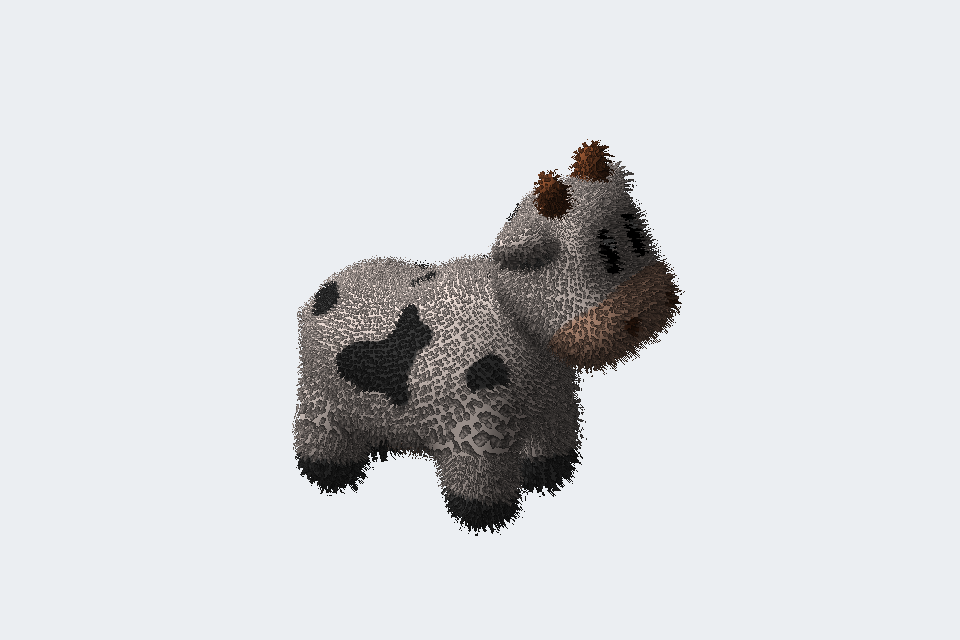
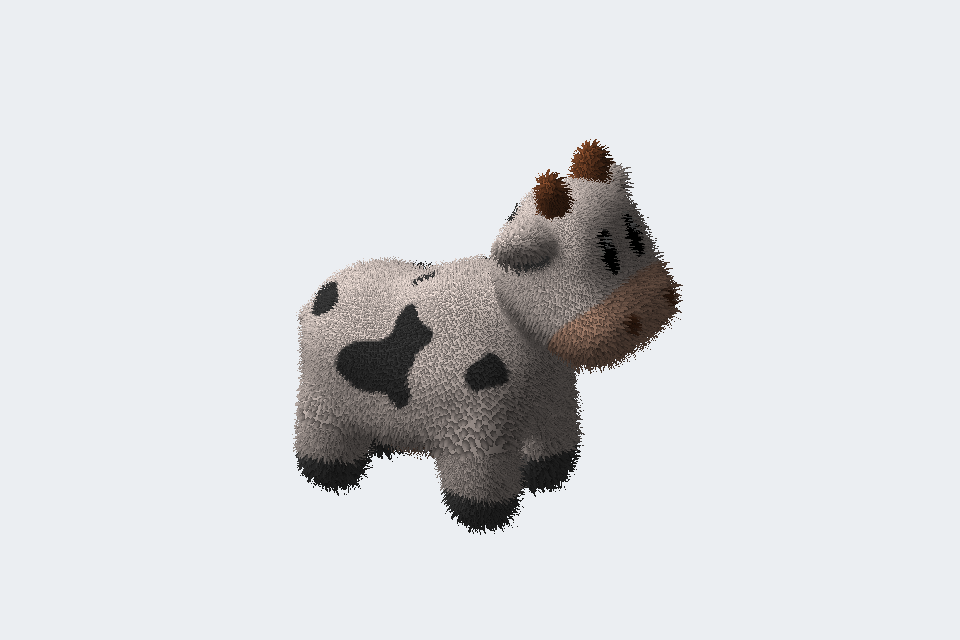
feat: share one strand texture across fur layers
The strand texture's alpha is the height each tapered strand reaches at a
texel; each layer is a cutout at its own height, keeping exactly the
cross-section separate layer textures did, in one texture whatever the
shell count. Texels show their strand's top color, so lower layers, which
show more short strand edges, are darker. Spot's demo coat drops from
about 36 MB to 7 MB while growing finer strands and more shells.

Changed region(s): [[0.2812, 0.2188, 0.7188, 0.8438]]

diff --git a/web/fur/index.html b/web/fur/index.html
@@ -1,7 +1,7 @@
 <!doctype html>
 <html lang="en"><head><meta charset="utf-8"><meta name="viewport" content="width=device-width, initial-scale=1"><title>Fur — nt3d</title><link rel="stylesheet" href="../demo.css"></head>
 <body><header class="nav demo-nav"><a href="../">← nt3d demos</a><h1>Fur</h1><nav class="links" aria-label="Demo links"><a href="../shapes/">Shapes</a><a href="../models/">Models</a><a href="../large/">Dense mesh</a><a href="https://github.com/NimbleTerminal/nt3d/blob/main/examples/terrain/internal/terraindemo/fur.go">Source ↗</a></nav></header>
-<main class="demo-main"><p class="description">Shell fur on Spot the cow (by Keenan Crane, public domain): the mesh drawn again in layers, each pushed out along the normals and cut to the strands’ cross-section with a cutout texture. Spot’s own texture colors the fur, and the wind moves each layer’s node, so swaying uploads no geometry.</p><div class="terminal-shell"><p id="status" role="status" aria-live="polite">Loading the terminal and scene…</p><div id="terminal-container" style="position:absolute" role="region" aria-label="Interactive fur terminal"></div></div>
-<div class="controls" aria-label="Keyboard and mouse controls"><span>Drag: orbit · Shift-drag: pan · Wheel: zoom · <kbd>c</kbd> fit</span><span><kbd>a</kbd> wind <kbd>s</kbd> shells: 8, 12, 24 <kbd>l</kbd> length <kbd>n</kbd> turn</span><span><kbd>1</kbd> GPU <kbd>2</kbd> software <kbd>3</kbd> wireframe</span><span><kbd>r</kbd> camera rotation <kbd>g</kbd> glyphs <kbd>o</kbd> projection <kbd>q</kbd> quit</span></div>
+<main class="demo-main"><p class="description">Shell fur on Spot the cow (by Keenan Crane, public domain): the mesh drawn again in layers, each pushed out along the normals and cut to the strands’ cross-section by one shared texture, whose alpha is each strand’s height, at the layer’s own threshold. Spot’s own texture colors the fur, and the wind moves each layer’s node, so swaying uploads no geometry.</p><div class="terminal-shell"><p id="status" role="status" aria-live="polite">Loading the terminal and scene…</p><div id="terminal-container" style="position:absolute" role="region" aria-label="Interactive fur terminal"></div></div>
+<div class="controls" aria-label="Keyboard and mouse controls"><span>Drag: orbit · Shift-drag: pan · Wheel: zoom · <kbd>c</kbd> fit</span><span><kbd>a</kbd> wind <kbd>s</kbd> shells: 8, 16, 32 <kbd>l</kbd> length <kbd>n</kbd> turn</span><span><kbd>1</kbd> GPU <kbd>2</kbd> software <kbd>3</kbd> wireframe</span><span><kbd>r</kbd> camera rotation <kbd>g</kbd> glyphs <kbd>o</kbd> projection <kbd>q</kbd> quit</span></div>
 <p class="demo-foot">Fewer shells show the layering; seen edge-on, strands break into dashes, the technique’s known limit. Click the terminal to focus keyboard controls. GPU falls back to software when unavailable. Reload to restart after quitting.</p></main>
 <script src="wasm_exec.js"></script><script type="module" src="../demo.js"></script></body></html>

diff --git a/fur.go b/fur.go
@@ -49,21 +49,21 @@ const (
 // them; a layer at the full length would only ever be empty.
 func (f Fur) height(k int) float32 { return float32(k) / float32(f.Shells) }
 
-// FurCoat grows a Fur on meshes. It makes each strand density's layer
-// textures once, for every mesh that needs them.
+// FurCoat grows a Fur on meshes. It makes each strand density's texture
+// once, for every mesh that needs it.
 type FurCoat struct {
 	fur    Fur
-	layers map[furLayers][]*Texture
+	layers map[furLayers]*Texture
 }
 
-// furLayers names a set of layer textures: their strands, and the texture
-// that colors them, if any.
+// furLayers names a strand texture: its strands, and the texture that colors
+// them, if any.
 type furLayers struct {
 	density int
 	source  *Texture
 }
 
-// NewFur checks a Fur and returns its coat. Layer textures are made by
+// NewFur checks a Fur and returns its coat. Strand textures are made by
 // Shells, when a mesh shows what they need.
 func NewFur(f Fur) (*FurCoat, error) {
 	if f.Shells == 0 {
@@ -88,7 +88,7 @@ func NewFur(f Fur) (*FurCoat, error) {
 	case f.Spacing == 0 && (f.Density < 4 || f.Density > furMaxDensity):
 		return nil, fmt.Errorf("nt3d: fur density must be 4..%d", furMaxDensity)
 	}
-	return &FurCoat{fur: f, layers: map[furLayers][]*Texture{}}, nil
+	return &FurCoat{fur: f, layers: map[furLayers]*Texture{}}, nil
 }
 
 // density is strands across the texture for a mesh: Density, or as many as
@@ -111,10 +111,16 @@ func (c *FurCoat) density(base Geometry) int {
 	return int(min(furMaxDensity, max(4, math.Round(math.Sqrt(surface/uv)/float64(c.fur.Spacing)))))
 }
 
-// layerTextures makes, or returns, one texture per shell above the skin.
-func (c *FurCoat) layerTextures(key furLayers) ([]*Texture, error) {
-	if layers, ok := c.layers[key]; ok {
-		return layers, nil
+// strands makes, or returns, the texture all the layers share. Its alpha is
+// the height, as a fraction of the fur's length, to which a strand reaches
+// at each texel: a tapered strand is tallest at its center and short at its
+// edge. A layer at height h is a cutout at threshold h, so it keeps just the
+// strands' cross-section there, as a texture per layer would, at a fraction
+// of the memory. A texel's color is that of its strand at its top, so short
+// strand edges, which lower layers show most of, are darker.
+func (c *FurCoat) strands(key furLayers) (*Texture, error) {
+	if texture, ok := c.layers[key]; ok {
+		return texture, nil
 	}
 	f, density := c.fur, key.density
 	size := min(furMaxTexture, density*furTexelsPerStrand)
@@ -145,37 +151,30 @@ func (c *FurCoat) layerTextures(key furLayers) ([]*Texture, error) {
 		}
 		strands[i] = s
 	}
-	var layers []*Texture
-	for k := 1; k < f.Shells; k++ {
-		h := float64(f.height(k))
-		img := image.NewNRGBA(image.Rect(0, 0, size, size))
-		for y := range size {
-			for x := range size {
-				s := &strands[min(density-1, int(float64(y)/cell))*density+min(density-1, int(float64(x)/cell))]
-				if h > s.length {
-					continue
-				}
-				// Strands taper to their tips, but keep enough body that the
-				// outer layers, which are what shows, still cover the fur.
-				along := h / s.length
-				if math.Hypot(float64(x)+.5-s.x, float64(y)+.5-s.y) > s.radius*(1-.6*along) {
-					continue
-				}
-				// Color turns toward the tip early, as most of a strand that
-				// shows is its upper part; light reaches the outer fur.
-				shade, tip := .7+.3*h, math.Sqrt(along)
-				mix := func(c int) uint8 { return uint8((s.root[c] + (s.tip[c]-s.root[c])*tip) * shade) }
-				img.SetNRGBA(x, y, color.NRGBA{mix(0), mix(1), mix(2), 255})
-			}
+	img := image.NewNRGBA(image.Rect(0, 0, size, size))
+	for y := range size {
+		for x := range size {
+			s := &strands[min(density-1, int(float64(y)/cell))*density+min(density-1, int(float64(x)/cell))]
+			// A strand's radius shrinks to 40% at its tip, so a texel at
+			// distance d stays inside it up to this height.
+			d := math.Hypot(float64(x)+.5-s.x, float64(y)+.5-s.y)
+			height := max(0, min(s.length, s.length*(1-d/s.radius)/.6))
+			// Color turns toward the tip early, as most of a strand that
+			// shows is its upper part; light reaches the outer fur. Texels
+			// outside strands keep their strand's color too, so filtering at
+			// strand edges does not darken them.
+			along := height / s.length
+			shade, tip := .7+.3*height, math.Sqrt(along)
+			mix := func(c int) uint8 { return uint8((s.root[c] + (s.tip[c]-s.root[c])*tip) * shade) }
+			img.SetNRGBA(x, y, color.NRGBA{mix(0), mix(1), mix(2), uint8(math.Round(height * 255))})
 		}
-		t, err := NewTexture(img)
-		if err != nil {
-			return nil, err
-		}
-		layers = append(layers, t)
 	}
-	c.layers[key] = layers
-	return layers, nil
+	texture, err := NewTexture(img)
+	if err != nil {
+		return nil, err
+	}
+	c.layers[key] = texture
+	return texture, nil
 }
 
 // Shells returns the fur on a base mesh: first an opaque skin, then one
@@ -196,7 +195,7 @@ func (c *FurCoat) Shells(base Geometry) ([]Geometry, error) {
 	if textured(base) {
 		key.source = base.Material.Texture
 	}
-	layers, err := c.layerTextures(key)
+	strands, err := c.strands(key)
 	if err != nil {
 		return nil, err
 	}
@@ -212,9 +211,9 @@ func (c *FurCoat) Shells(base Geometry) ([]Geometry, error) {
 	}
 	skin.Bounds = GeometryBounds(skin)
 	shells := []Geometry{skin}
-	for k, texture := range layers {
-		h := f.height(k + 1)
-		g := Geometry{Vertices: slices.Clone(base.Vertices), Indices: base.Indices, UV: base.UV, Material: &Material{Texture: texture, Cutout: true}}
+	for k := 1; k < f.Shells; k++ {
+		h := f.height(k)
+		g := Geometry{Vertices: slices.Clone(base.Vertices), Indices: base.Indices, UV: base.UV, Material: &Material{Texture: strands, Cutout: true, Threshold: h}}
 		for i := range g.Vertices {
 			v := &g.Vertices[i]
 			v.Position = v.Position.Add(v.Normal.Normalize().Scale(f.Length * h))

diff --git a/fur_test.go b/fur_test.go
@@ -30,9 +30,12 @@ func TestFurShells(t *testing.T) {
 		}
 		kept := 0
 		for i := 3; i < len(g.Material.Texture.pixels); i += 4 {
-			if g.Material.Texture.pixels[i] >= 128 {
+			if float32(g.Material.Texture.pixels[i]) >= g.Material.Threshold*255 {
 				kept++
 			}
+		}
+		if g.Material.Texture != shells[1].Material.Texture {
+			t.Fatal("layers do not share one texture")
 		}
 		if kept == 0 || kept > previous {
 			t.Fatalf("shell %d keeps %d texels, below it %d", k+1, kept, previous)
@@ -98,7 +101,7 @@ func TestFurSpacingAndTexture(t *testing.T) {
 	for y := range layer.height {
 		for x := range layer.width {
 			i := (y*layer.width + x) * 4
-			if layer.pixels[i+3] < 128 {
+			if float32(layer.pixels[i+3]) < shells[1].Material.Threshold*255 {
 				continue
 			}
 			side := &left

diff --git a/examples/terrain/internal/terraindemo/fur.go b/examples/terrain/internal/terraindemo/fur.go
@@ -18,7 +18,7 @@ import (
 func FurMain() { mainDemo(false, sceneFur) }
 
 var (
-	furShells  = []int{8, 12, 24}
+	furShells  = []int{8, 16, 32}
 	furLengths = []float32{.05, .09}
 )
 
@@ -80,7 +80,7 @@ func (d *demo) growFur() error {
 	}
 	d.fur.nodes = nil
 	// Spot's texture colors the fur: black and white, darker at the roots.
-	coat, err := nt3d.NewFur(nt3d.Fur{Length: furLengths[d.fur.length], Shells: furShells[d.fur.shells], Spacing: .016, Seed: 7})
+	coat, err := nt3d.NewFur(nt3d.Fur{Length: furLengths[d.fur.length], Shells: furShells[d.fur.shells], Spacing: .011, Seed: 7})
 	if err != nil {
 		return err
 	}

diff --git a/README.md b/README.md
@@ -95,10 +95,13 @@ place, length, and taper. `Fur.Spacing` sets about how far apart strands grow
 in world units, from how much surface the mesh's UVs spread over the
 texture; `Density` sets strands across the texture directly. A textured base
 colors its fur from its texture and wears it as skin; otherwise color runs
-from `Root` to `Tip`. Either way, fur is darker deeper in. Layer textures are
-made once per density and color source, and take shells × (4 × density)²
-× 4 bytes, so dense fur with many shells costs memory: Spot's demo coat,
-12 shells at 225 strands a side, is about 36 MB.
+from `Root` to `Tip`. Every layer shares one strand texture whose alpha is the
+height each strand reaches at a texel; each layer is a cutout at its own
+`Material.Threshold`, so it keeps the strands' cross-section at its height.
+The texture takes (4 × density)² × 4 bytes whatever the shell count (Spot's
+demo coat, 330 strands a side: about 7 MB). A texel shows its strand's top
+color at every height, so short strand edges, which lower layers show most,
+make fur darker deeper in.
 `FurCoat.Sway(shell, v)` is the node transform that bends the fur as wind or
 gravity would; a uniform sway moves a whole layer, so animating it uploads no
 geometry. Shells sit at k/n of the length so the top one still meets the
@@ -106,7 +109,7 @@ longest strands. Seen edge-on, the layers show as dashes, the technique's
 known limit; more shells soften it. Wireframe draws the coat's outer outline.
 
 ```go
-coat, err := nt3d.NewFur(nt3d.Fur{Length: .05, Shells: 12, Spacing: .016})
+coat, err := nt3d.NewFur(nt3d.Fur{Length: .05, Shells: 16, Spacing: .011})
 shells, err := coat.Shells(spot) // Textured: the fur takes Spot's colors.
 for k, g := range shells {
 	id, _ := scene.SetGeometry(fmt.Sprintf("fur %d", k), g)
